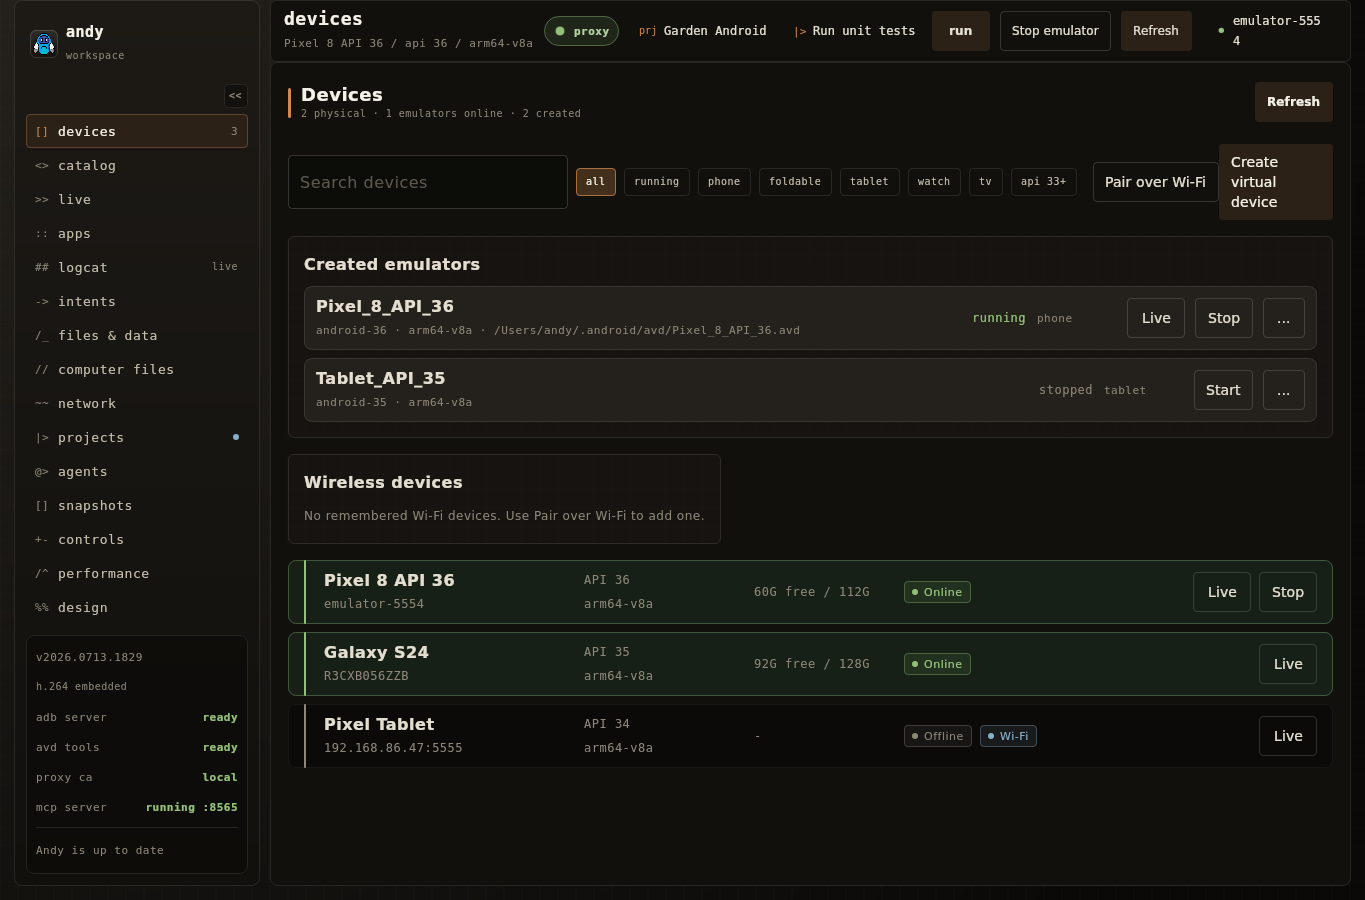
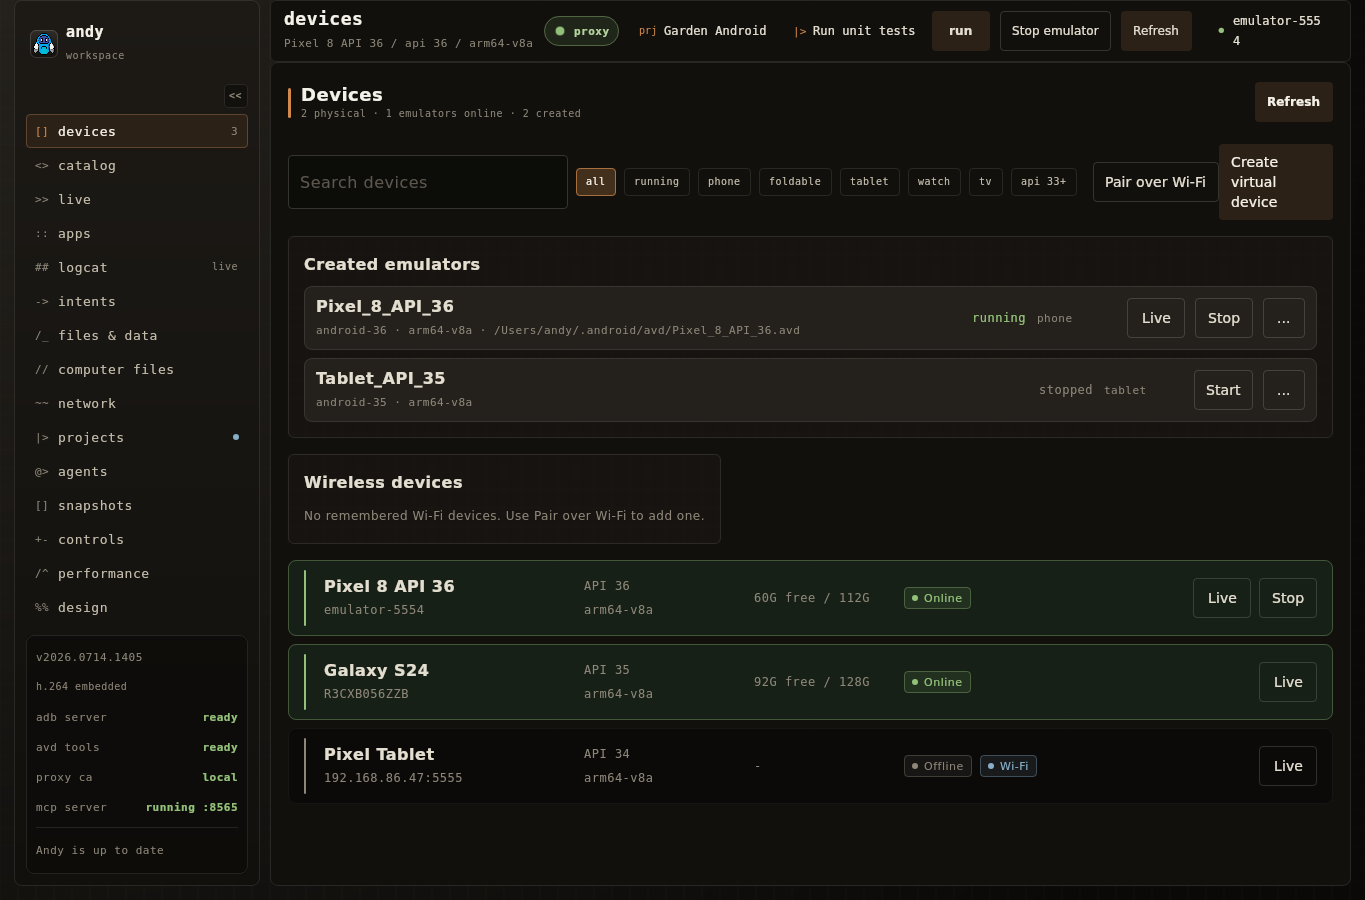
Polish web mirror overlays and clarify desktop vs web (#32)
* Polish web mirror overlays and clarify desktop vs web.

Bring design rulers, grids, and color picker to the web mirror surface, hide unsupported pop-out on web, and set expectations that desktop remains the full Andy experience.

* Fix device-row intrinsics and web ruler drag state.

Use IntrinsicSize.Min for LazyColumn device rows so the status bar can fill height safely, keep ruler drag axis local to the web host, and refresh the macOS devices screenshot baseline.

* Refresh Windows devices screenshot baseline.

Align the Windows Roborazzi golden with the taller device rows so desktop checks compare intentional layout, not stale screenshots.

* Refresh Linux devices screenshot baseline.

Keep the Linux Roborazzi golden in sync with the taller device rows so CI verifies the intentional layout change.

---------

Changed region(s): [[0.2154, 0.6222, 0.9846, 0.8711], [0.6769, 0.8089, 0.7692, 0.8711]]

diff --git a/src/wasmJsMain/kotlin/app/andy/MirrorVideoSurface.web.kt b/src/wasmJsMain/kotlin/app/andy/MirrorVideoSurface.web.kt
@@ -11,7 +11,12 @@ import app.andy.service.MirrorInput
 import app.andy.web.webAdbAttachMirror
 import app.andy.web.webAdbDetachMirror
 import app.andy.web.webAdbMirrorPoint
-import app.andy.web.webAdbSetMirrorHighlight
+import app.andy.web.webAdbMirrorRulerAxis
+import app.andy.web.webAdbMirrorSourcePoint
+import app.andy.web.webAdbSetMirrorOverlay
+import app.andy.web.webAdbSetMirrorPickerPoint
+import kotlinx.serialization.json.buildJsonObject
+import kotlinx.serialization.json.put
 import kotlinx.browser.document
 import kotlinx.coroutines.flow.Flow
 import org.w3c.dom.HTMLDivElement
@@ -20,6 +25,7 @@ import org.w3c.dom.events.Event
 private external interface WebPointerEvent : kotlin.js.JsAny {
     val clientX: Double
     val clientY: Double
+    val pointerId: Int
     fun stopImmediatePropagation()
 }
 
@@ -29,9 +35,11 @@ private val mirrorInteractions = mutableMapOf<String, WebMirrorInteraction>()
 private data class WebMirrorInteraction(
     val passThroughInput: Boolean,
     val pickerEnabled: Boolean,
+    val overlay: MirrorOverlay,
     val onHoverColor: (String) -> Unit,
     val onPickerClick: (String) -> Unit,
     val onDevicePointClick: (Int, Int) -> Unit,
+    val onRulerResize: (Float, Float) -> Unit,
 )
 
 private data class WebMirrorPoint(val x: Int, val y: Int, val color: String)
@@ -44,22 +52,93 @@ private fun webMirrorPoint(hostId: String, event: Event): WebMirrorPoint? {
     return WebMirrorPoint(parts[0].toIntOrNull() ?: return null, parts[1].toIntOrNull() ?: return null, parts[2])
 }
 
+private fun webMirrorSourcePoint(hostId: String, event: Event): Pair<Float, Float>? {
+    val pointer = event.unsafeCast<WebPointerEvent>()
+    val parts = webAdbMirrorSourcePoint(hostId, pointer.clientX, pointer.clientY).split(',', limit = 2)
+    if (parts.size != 2) return null
+    return (parts[0].toFloatOrNull() ?: return null) to (parts[1].toFloatOrNull() ?: return null)
+}
+
+private fun MirrorOverlay.webConfig(): String = buildJsonObject {
+    put("highlightBounds", highlightBounds.orEmpty())
+    put("sourceWidth", sourceWidth ?: 0)
+    put("sourceHeight", sourceHeight ?: 0)
+    put("showGrid", showGrid)
+    put("gridSize", gridSize)
+    put("gridColor", gridColor.toCssColor())
+    put("showRuler", showRuler)
+    put("rulerColor", rulerColor.toCssColor())
+    put("rulerX", rulerX)
+    put("rulerY", rulerY)
+    put("pickerEnabled", pickerColor != null)
+    put("pickerColor", (pickerColor ?: androidx.compose.ui.graphics.Color.Transparent).toCssColor())
+    put("pickerHex", pickerHex.orEmpty())
+}.toString()
+
+private fun androidx.compose.ui.graphics.Color.toCssColor(): String {
+    fun channel(value: Float) = (value * 255f).toInt().coerceIn(0, 255)
+    return "rgba(${channel(red)}, ${channel(green)}, ${channel(blue)}, $alpha)"
+}
+
 private fun installMirrorInteraction(host: HTMLDivElement) {
+    var activeRulerAxis: String? = null
     host.addEventListener("pointermove", { event ->
         val interaction = mirrorInteractions[host.id]
-        if (interaction != null && !interaction.passThroughInput && interaction.pickerEnabled) {
-            webMirrorPoint(host.id, event)?.let { interaction.onHoverColor(it.color) }
+        if (interaction != null) {
+            val pointer = event.unsafeCast<WebPointerEvent>()
+            val rulerAxis = activeRulerAxis
+            if (rulerAxis != null) {
+                webMirrorSourcePoint(host.id, event)?.let { (sourceX, sourceY) ->
+                    val nextX = if (rulerAxis == "x") sourceX else interaction.overlay.rulerX
+                    val nextY = if (rulerAxis == "y") sourceY else interaction.overlay.rulerY
+                    interaction.onRulerResize(nextX, nextY)
+                }
+                event.preventDefault()
+                pointer.stopImmediatePropagation()
+            } else if (!interaction.passThroughInput && interaction.pickerEnabled) {
+                webAdbSetMirrorPickerPoint(host.id, pointer.clientX, pointer.clientY)
+                webMirrorPoint(host.id, event)?.let { interaction.onHoverColor(it.color) }
+            }
         }
     }, true)
     host.addEventListener("pointerdown", { event ->
         val interaction = mirrorInteractions[host.id]
+        if (interaction != null) {
+            val pointer = event.unsafeCast<WebPointerEvent>()
+            val rulerAxis = webAdbMirrorRulerAxis(host.id, pointer.clientX, pointer.clientY)
+            if (rulerAxis.isNotEmpty()) {
+                activeRulerAxis = rulerAxis
+                host.setPointerCapture(pointer.pointerId)
+                event.preventDefault()
+                pointer.stopImmediatePropagation()
+                return@addEventListener
+            }
+        }
         if (interaction != null && !interaction.passThroughInput) {
             webMirrorPoint(host.id, event)?.let { point ->
                 event.preventDefault()
                 event.unsafeCast<WebPointerEvent>().stopImmediatePropagation()
+                val pointer = event.unsafeCast<WebPointerEvent>()
+                if (interaction.pickerEnabled) webAdbSetMirrorPickerPoint(host.id, pointer.clientX, pointer.clientY)
                 if (interaction.pickerEnabled) interaction.onPickerClick(point.color)
                 else interaction.onDevicePointClick(point.x, point.y)
             }
+        }
+    }, true)
+    host.addEventListener("pointerup", { event ->
+        if (activeRulerAxis != null) {
+            activeRulerAxis = null
+            host.releasePointerCapture(event.unsafeCast<WebPointerEvent>().pointerId)
+            event.preventDefault()
+            event.unsafeCast<WebPointerEvent>().stopImmediatePropagation()
+        }
+    }, true)
+    host.addEventListener("pointercancel", { event ->
+        if (activeRulerAxis != null) {
+            activeRulerAxis = null
+            host.releasePointerCapture(event.unsafeCast<WebPointerEvent>().pointerId)
+            event.preventDefault()
+            event.unsafeCast<WebPointerEvent>().stopImmediatePropagation()
         }
     }, true)
 }
@@ -73,6 +152,7 @@ private fun WebMirrorHost(
     onHoverColor: (String) -> Unit,
     onPickerClick: (String) -> Unit,
     onDevicePointClick: (Int, Int) -> Unit,
+    onRulerResize: (Float, Float) -> Unit,
 ) {
     HtmlElementView(
         factory = {
@@ -91,17 +171,14 @@ private fun WebMirrorHost(
             mirrorInteractions[it.id] = WebMirrorInteraction(
                 passThroughInput = passThroughInput,
                 pickerEnabled = overlay.pickerColor != null,
+                overlay = overlay,
                 onHoverColor = onHoverColor,
                 onPickerClick = onPickerClick,
                 onDevicePointClick = onDevicePointClick,
+                onRulerResize = onRulerResize,
             )
             webAdbAttachMirror(it.id)
-            webAdbSetMirrorHighlight(
-                hostId = it.id,
-                bounds = overlay.highlightBounds.orEmpty(),
-                sourceWidth = overlay.sourceWidth ?: 0,
-                sourceHeight = overlay.sourceHeight ?: 0,
-            )
+            webAdbSetMirrorOverlay(it.id, overlay.webConfig())
         },
         onRelease = {
             mirrorInteractions.remove(it.id)
@@ -121,7 +198,7 @@ actual fun MirrorVideoSurface(
     onDevicePointClick: (Int, Int) -> Unit,
     onRulerResize: (Float, Float) -> Unit,
     overlay: MirrorOverlay,
-) = WebMirrorHost(modifier, overlay, passThroughInput, onHoverColor, onPickerClick, onDevicePointClick)
+) = WebMirrorHost(modifier, overlay, passThroughInput, onHoverColor, onPickerClick, onDevicePointClick, onRulerResize)
 
 @Composable
 actual fun MirrorVideoSurface(
@@ -135,4 +212,4 @@ actual fun MirrorVideoSurface(
     onDevicePointClick: (Int, Int) -> Unit,
     onRulerResize: (Float, Float) -> Unit,
     overlay: MirrorOverlay,
-) = WebMirrorHost(modifier, overlay, passThroughInput, onHoverColor, onPickerClick, onDevicePointClick)
+) = WebMirrorHost(modifier, overlay, passThroughInput, onHoverColor, onPickerClick, onDevicePointClick, onRulerResize)

diff --git a/src/commonMain/kotlin/app/andy/ui/devices/DevicesScreen.kt b/src/commonMain/kotlin/app/andy/ui/devices/DevicesScreen.kt
@@ -14,6 +14,7 @@ import androidx.compose.foundation.layout.fillMaxSize
 import androidx.compose.foundation.layout.fillMaxWidth
 import androidx.compose.foundation.layout.height
 import androidx.compose.foundation.layout.heightIn
+import androidx.compose.foundation.layout.IntrinsicSize
 import androidx.compose.foundation.layout.padding
 import androidx.compose.foundation.layout.size
 import androidx.compose.foundation.layout.width
@@ -386,10 +387,11 @@ internal fun DevicesScreen(
                 val rowShape = RoundedCornerShape(AndyRadius.R4)
                 Row(
                     Modifier.fillMaxWidth()
-                        .height(64.dp)
+                        .height(IntrinsicSize.Min)
+                        .heightIn(min = 76.dp)
                         .background(if (online) AndyColors.GreenSubtle.copy(alpha = 0.82f) else AndyColors.Neutral900.copy(alpha = 0.7f), rowShape)
                         .border(1.dp, if (online) Green.copy(alpha = 0.35f) else Color.White.copy(alpha = 0.05f), rowShape)
-                        .padding(horizontal = 16.dp),
+                        .padding(horizontal = 16.dp, vertical = 10.dp),
                     verticalAlignment = Alignment.CenterVertically,
                 ) {
                     Box(Modifier.width(2.dp).fillMaxHeight().background(if (online) Green else TextSecondary, RoundedCornerShape(AndyRadius.R2)))

diff --git a/src/commonMain/kotlin/app/andy/ui/live/LiveDevicePane.kt b/src/commonMain/kotlin/app/andy/ui/live/LiveDevicePane.kt
@@ -115,6 +115,7 @@ internal fun LiveDevicePane(
     onBugReport: () -> Unit = {},
     onClipText: () -> Unit = {},
     onPopOut: () -> Unit = {},
+    showPopOut: Boolean = true,
     onInput: (MirrorInput) -> Unit,
     onConnect: () -> Unit,
 ) {
@@ -139,6 +140,7 @@ internal fun LiveDevicePane(
                 onBugReport = onBugReport,
                 onClipText = onClipText,
                 onPopOut = onPopOut,
+                showPopOut = showPopOut,
             )
         }
 
@@ -343,6 +345,7 @@ internal fun LiveHardwareToolbar(
     onBugReport: () -> Unit,
     onClipText: () -> Unit,
     onPopOut: () -> Unit,
+    showPopOut: Boolean,
 ) {
     Box(
         Modifier.width(68.dp).fillMaxHeight(),
@@ -365,7 +368,7 @@ internal fun LiveHardwareToolbar(
             ToolbarButton(HardwareIcon.Capture, "Capture", enabled, onCaptureScreenshot)
             ToolbarButton(HardwareIcon.Bug, "Bug", enabled, onBugReport)
             ToolbarButton(HardwareIcon.Clip, "Clip", enabled, onClipText)
-            ToolbarButton(HardwareIcon.PopOut, "Pop Out", enabled, onPopOut)
+            if (showPopOut) ToolbarButton(HardwareIcon.PopOut, "Pop Out", enabled, onPopOut)
             ToolbarButton(HardwareIcon.Record, "Record", false) {}
         }
     }

diff --git a/src/wasmJsMain/kotlin/app/andy/web/WebAdbInterop.kt b/src/wasmJsMain/kotlin/app/andy/web/WebAdbInterop.kt
@@ -28,8 +28,11 @@ external fun webAdbStartMirror(serial: String, configJson: String): Promise<JsSt
 external fun webAdbStopMirror(sessionId: String): Promise<JsAny?>
 external fun webAdbAttachMirror(hostId: String): Boolean
 external fun webAdbDetachMirror(hostId: String)
-external fun webAdbSetMirrorHighlight(hostId: String, bounds: String, sourceWidth: Int, sourceHeight: Int)
+external fun webAdbSetMirrorOverlay(hostId: String, configJson: String)
 external fun webAdbMirrorPoint(hostId: String, clientX: Double, clientY: Double): String
+external fun webAdbMirrorSourcePoint(hostId: String, clientX: Double, clientY: Double): String
+external fun webAdbMirrorRulerAxis(hostId: String, clientX: Double, clientY: Double): String
+external fun webAdbSetMirrorPickerPoint(hostId: String, clientX: Double, clientY: Double)
 external fun webAdbSendMirrorInput(inputJson: String): Promise<JsString>
 external fun webAdbMirrorStats(): JsString
 external fun webStorageStatus(): Promise<JsString>

diff --git a/src/commonMain/kotlin/app/andy/ui/design/DesignScreen.kt b/src/commonMain/kotlin/app/andy/ui/design/DesignScreen.kt
@@ -143,6 +143,7 @@ internal fun DesignScreen(
                     rulerX = x.toInt().toString()
                     rulerY = y.toInt().toString()
                 },
+                showPopOut = services.capabilities.platform != app.andy.service.AndyPlatform.Web,
                 onInput = sendMirrorInput,
                 onConnect = {
                     if (serial != null) scope.launch {

diff --git a/src/commonMain/kotlin/app/andy/ui/live/LiveScreen.kt b/src/commonMain/kotlin/app/andy/ui/live/LiveScreen.kt
@@ -223,6 +223,7 @@ internal fun LiveScreen(
                 onBugReport = { bugDialogVisible = true },
                 onClipText = { clipDialogVisible = true },
                 onPopOut = onPopOutMirror,
+                showPopOut = !isWeb,
                 onInput = sendMirrorInput,
                 onConnect = {
                     reconnectMirror(mirrorConfig())

diff --git a/README.md b/README.md
@@ -4,7 +4,9 @@
 
 # Andy
 
-Andy is a desktop companion for Android developers.
+Andy is a desktop companion for Android developers. The desktop app is the
+recommended experience and includes the full feature set. A smaller subset of
+Andy is also available on the web at [andy.joetr.com](https://www.andy.joetr.com).
 
 ## Download
 
@@ -98,10 +100,12 @@ Very rudimentary file browsing / editing.
 
 ### Andy for web
 
-The browser build can connect directly with WebUSB or through Andy's pinned
-tracebox distribution. The bridge keeps ADB on loopback and permits only
-Perfetto's standard local origins, `https://andy.joetr.com`, and the computer's
-detected private IPv4 origin on port `10000`.
+The browser build at [andy.joetr.com](https://www.andy.joetr.com) provides a
+smaller subset of Andy's functionality. For the complete experience, use the
+desktop app. The browser build can connect directly with WebUSB or through
+Andy's pinned tracebox distribution. The bridge keeps ADB on loopback and
+permits only Perfetto's standard local origins, `https://andy.joetr.com`, and
+the computer's detected private IPv4 origin on port `10000`.
 
 ```sh
 adb start-server